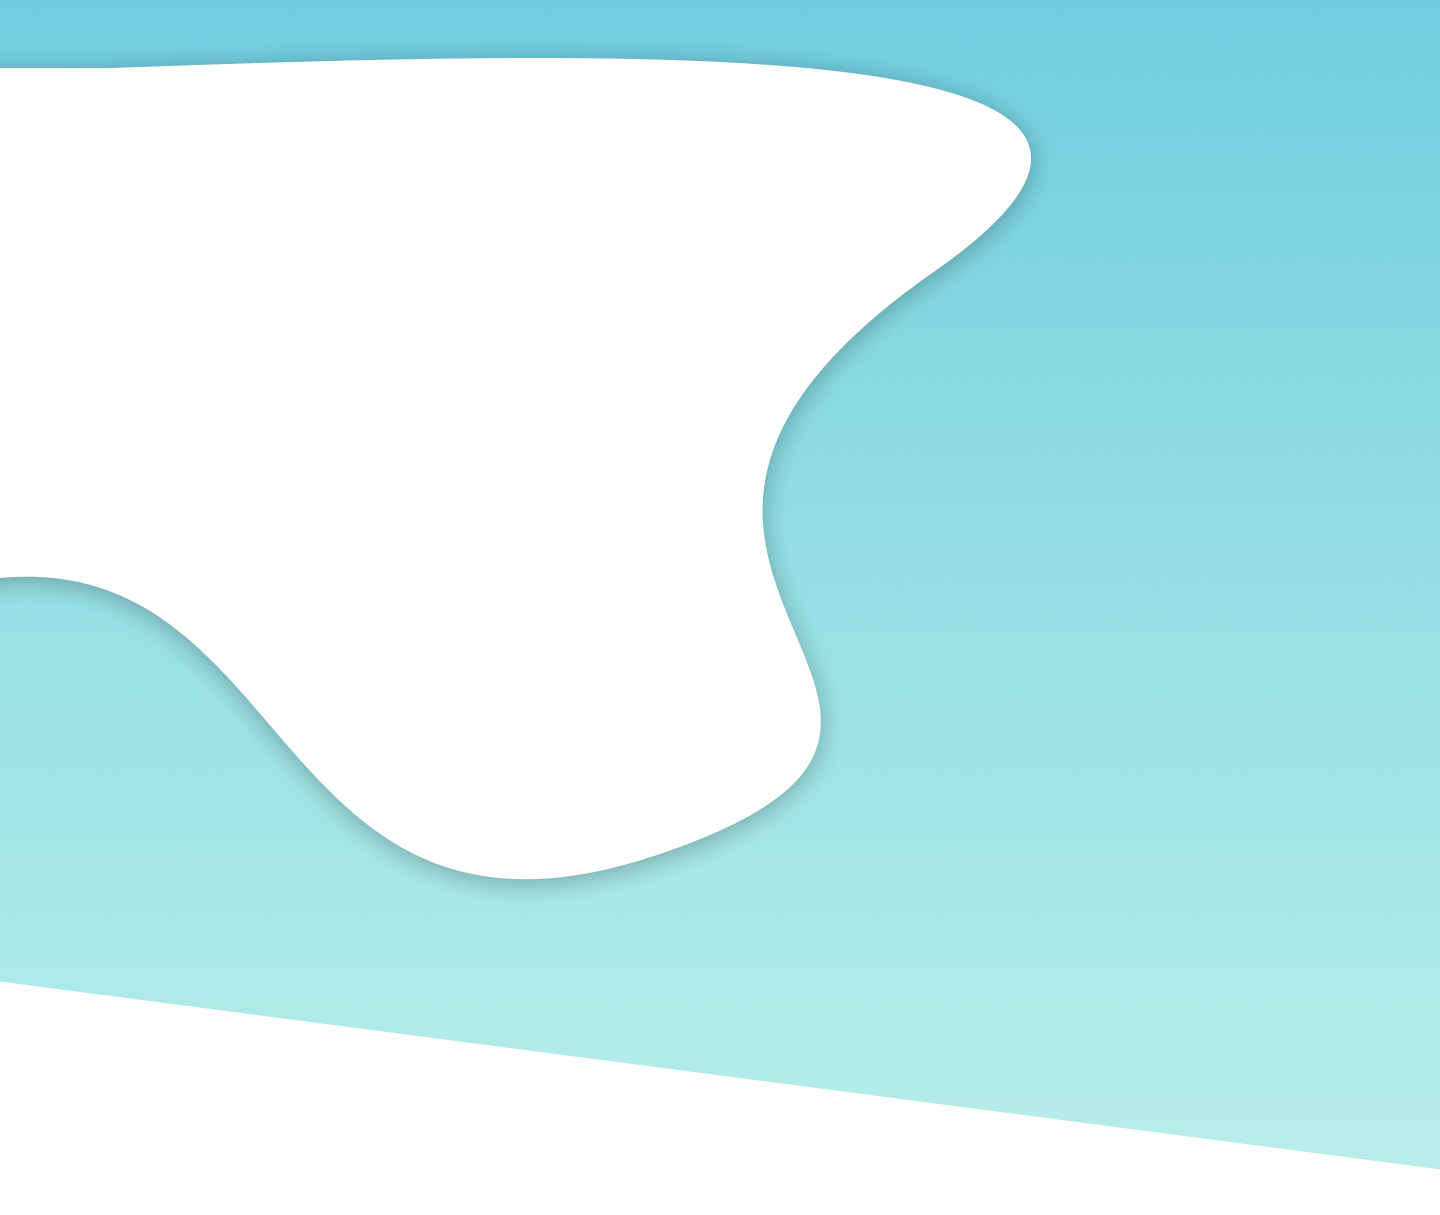
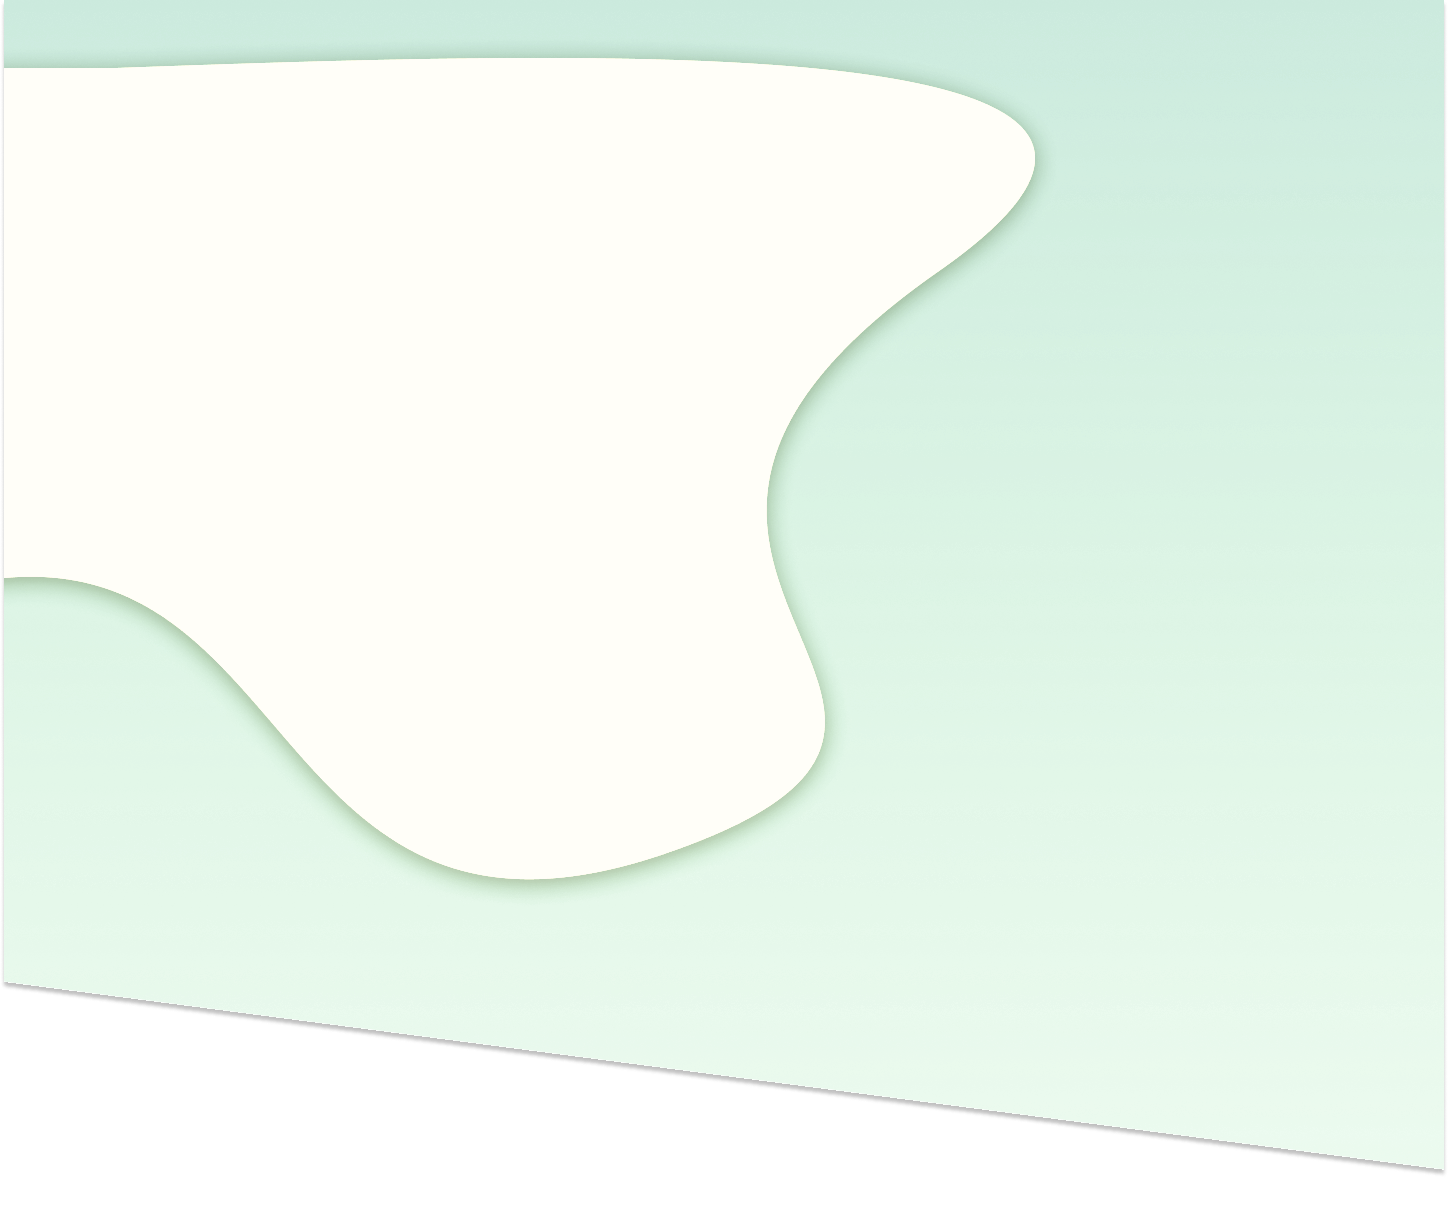
refactoring code base

diff --git a/src/pages/AboutUs/index.jsx b/src/pages/AboutUs/index.jsx
@@ -1,25 +1,21 @@
 import './style.css';
-import Avatar from '../../assets/avatar.png';
-import leona from '../../assets/leona.jpeg';
+import widies from '../../assets/widies.jpeg';
 import './style.css';
-import faza from '../../assets//fazaa.JPG';
-import adel from '../../assets/adel.jpeg';
-import kukuh from '../../assets/kukuh.jpeg';
 import Footer from '../../components/Footer/Footer';
 
 const About = () => {
   return (
-    <div>
-      <div className="container lg:mx-auto lg:px-20 max-w-screen-2xl">
+    <div className="bg-resik-base">
+      <div className="container mx-auto lg:px-20 max-w-screen-2xl">
         <div className="team grid grid-cols-2 py-10">
           <div className=" text-left grid lg:grid-cols-1 lg:col-span-1 md:grid-cols-2 md:col-span-1 sc:grid-cols-2 sc:col-span-2 sc:p-10">
             <div className="title lg:px-20 lg:text-7xl font-sans">
-              <h1>Cikrak</h1>
+              <h1>ReSik</h1>
             </div>
             <p className="lg:px-20 lg:text-2xl font-sans">
-              Cikrak is a waste application that helps people to easily throw
+              ReSik is a waste application that helps people to easily throw
               trash and gives education about how to safe earth from waste. With
-              Cikrak, you can organize your own trash bin and choose where it
+              ReSik, you can organize your own trash bin and choose where it
               goes.
             </p>
           </div>
@@ -38,78 +34,15 @@ const About = () => {
           <div className="col-span-2">
             <div className="card grid lg:grid-cols-2 md:grid-cols-2 sc:grid-cols-1">
               <div className="card-image p-5">
-                <img src={leona} alt="reduce" />
+                <img src={widies} alt="reduce" />
               </div>
               <div className="card-content content-center grid justify-items-center ">
                 <h1 className="lg:text-3xl md:text-2xl sc:text-xl">
-                  Leona Rose
+                  Widies Ade Priyanto
                 </h1>
                 <p className="lg:text-lg md:text-base sc:text-base">
-                  Project Manager
+                  Fullstack Developer
                 </p>
-              </div>
-            </div>
-          </div>
-        </div>
-        <div className="grid lg:grid-cols-2 gap-5 justify-items-center">
-          <div className="col-span-1">
-            <div className="card grid lg:grid-cols-2  md:grid-cols-2 sc:grid-cols-1">
-              <div className="card-image p-5">
-                <img src={Avatar} alt="reduce" />
-              </div>
-              <div className="card-content content-center grid justify-items-center">
-                <h1 className="lg:text-3xl md:text-2xl sc:text-xl">
-                  Ifentius Ciputra
-                </h1>
-                <p className="lg:text-lg md:text-base sc:text-base">
-                  UI/UX Designer and <br />
-                  Front End Developer
-                </p>
-              </div>
-            </div>
-          </div>
-          <div className="col-span-1">
-            <div className="card grid lg:grid-cols-2  md:grid-cols-2 sc:grid-cols-1">
-              <div className="card-content content-center grid justify-items-center">
-                <h1 className="lg:text-3xl md:text-2xl sc:text-xl">
-                  Adelia Sannomiya
-                </h1>
-                <p className="lg:text-lg md:text-base sc:text-base">
-                  Front End Developer
-                </p>
-              </div>
-              <div className="card-image p-5">
-                <img src={adel} alt="reduce" />
-              </div>
-            </div>
-          </div>
-          <div className="col-span-1">
-            <div className="card grid lg:grid-cols-2 md:grid-cols-2 sc:grid-cols-1">
-              <div className="card-image p-5">
-                <img src={kukuh} alt="reduce" />
-              </div>
-              <div className="card-content content-center grid justify-items-center">
-                <h1 className="lg:text-3xl md:text-2xl sc:text-xl">
-                  Rezky Kukuh W
-                </h1>
-                <p className="lg:text-lg md:text-base sc:text-base">
-                  Front End Developer
-                </p>
-              </div>
-            </div>
-          </div>
-          <div className="col-span-1">
-            <div className="card grid lg:grid-cols-2 md:grid-cols-2 sc:grid-cols-1">
-              <div className="card-content content-center grid justify-items-center">
-                <h1 className="lg:text-3xl md:text-2xl sc:text-xl">
-                  M Ridho Faza A K
-                </h1>
-                <p className="lg:text-lg md:text-base sc:text-base">
-                  Front End Developer
-                </p>
-              </div>
-              <div className="card-image p-5">
-                <img src={faza} alt="reduce" />
               </div>
             </div>
           </div>

diff --git a/src/pages/Register/Register.jsx b/src/pages/Register/Register.jsx
@@ -1,9 +1,9 @@
 import React from 'react';
-import registerImg from '../../assets/register.png';
+import registerImg from '../../assets/register2.png';
 import { useState } from 'react';
 import { useSelector, useDispatch } from 'react-redux';
 import { setRegister } from '../../redux/registerSlice';
-import Logo from '../../assets/logo2.png';
+import Logo from '../../assets/logo-resik2.png';
 import { Link ,useNavigate} from 'react-router-dom';
 
 export const Register = () => {
@@ -110,9 +110,9 @@ export const Register = () => {
         <div className="bg-gray-100 flex flex-col justify-center">
           <form
             onSubmit={handleSubmit}
-            className="max-w-[400px] w-full mx-auto bg-white p-4"
+            className="max-w-[400px] my-5 shadow-2xl rounded-lg px-10 w-full mx-auto bg-white p-4"
           >
-            <img src={Logo} alt="logo" className="h-16 ml-32" />
+            <img src={Logo} alt="logo" className="h-16 mx-auto" />
             <div className="flex flex-col py-2">
               <label>
                 Name<span className="text-red-600"> *</span>
@@ -203,7 +203,7 @@ export const Register = () => {
             </div>
             <button
               type="submit"
-              className="border w-full my-4 py-2 bg-lightprimary hover:bg-greenprimary text-white"
+              className="border w-full my-4 py-2 bg-resik-primary hover:bg-resik-secondary rounded-md text-white"
             >
               Register
             </button>
@@ -211,7 +211,7 @@ export const Register = () => {
               <p className="text-center mt-8 text-gray-400">
                 Already a member?{' '}
                 <Link to="/login">
-                  <span className="text-lightprimary">Sign In</span>
+                  <span className="text-resik-primary">Sign In</span>
                 </Link>
               </p>
             </div>

diff --git a/src/components/Footer/Footer.jsx b/src/components/Footer/Footer.jsx
@@ -1,5 +1,5 @@
 import React from 'react';
-import Logo from '../../assets/logo2.png';
+import Logo from '../../assets/logo-resik2.png';
 import SocialMedia from './SocialMedia';
 import { Link } from 'react-router-dom';
 
@@ -7,7 +7,7 @@ const Footer = () => {
   const Links = [
     {
       title: 'Location',
-      links: ['Jakarta', 'Denpasar', 'Semarang', 'Surabaya'],
+      links: ['Tegal', 'Slawi', 'Dukuhwaru', 'Pangkah'],
     },
     {
       title: 'Contact',
@@ -15,12 +15,12 @@ const Footer = () => {
     },
   ];
   return (
-    <footer className="pt-20 md:px-24 px-4 bg-lightprimary">
+    <footer className="pt-20 md:px-24 px-4 bg-resik-primary">
       <div className="flex md:flex-row flex-col gap-20">
         <div className="flex-1">
           <img src={Logo} alt="logo" className="h-12" />
           <p className="md:w-1/2 leading-relaxed text-sm text-white pt-7">
-            Cikrak is a waste pick-up web-application that aims to raise
+            ReSik is a waste pick-up web-application that aims to raise
             awareness on the importance of waste management and the negative
             impacts poor waste management has on the environment.
           </p>
@@ -40,7 +40,7 @@ const Footer = () => {
         </div>
       </div>
       <p className="text-center py-10 mt-6 text-sm text-white">
-        Copyright © 2022 - All Rights Reserved Cikrak.
+        Copyright © 2022 - All Rights Reserved ReSik.
       </p>
     </footer>
   );

diff --git a/src/pages/Login/Login.jsx b/src/pages/Login/Login.jsx
@@ -58,7 +58,7 @@ export const Login = () => {
         </div>
         <div className="bg-gray-100 flex flex-col justify-center">
           <form
-            className="max-w-[400px] w-full mx-auto bg-white p-4"
+            className="max-w-[400px] w-full shadow-lg rounded-lg mx-auto px-10 bg-white p-4"
             onSubmit={handleSubmit}
           >
             <img src={Logo} alt="logo" className="h-16 m-auto" />
@@ -86,16 +86,15 @@ export const Login = () => {
                 placeholder="Enter Password"
               />
             </div>
-            <button className="border w-full my-4 py-2 bg-lightprimary hover:bg-greenprimary text-white">
+            <button className="border w-full my-4 py-2 bg-resik-primary hover:bg-resik-secondary rounded-md text-white">
               Sign In
             </button>
             <div className="flex justify-between">
               <p className="flex items-center">
                 <input className="mr-2" type="checkbox" /> Remember Me
               </p>
-              <p className="text-center text-gray-400">Not a member?</p>
               <Link to="/register">
-                <span className="text-lightprimary">Sign up now</span>
+                <span className="text-resik-primary">Sign up now</span>
               </Link>
             </div>
           </form>

diff --git a/src/components/Navbar/NavBarAuth.jsx b/src/components/Navbar/NavBarAuth.jsx
@@ -1,6 +1,6 @@
-import React, { useState, useEffect } from "react";
+import React, { useState } from "react";
 import NavLinks from "../../data/NavLinks";
-import Logo from "../../assets/logo.png";
+import Logo from "../../assets/logo-resik2.png";
 import { FontAwesomeIcon } from "@fortawesome/react-fontawesome";
 import { faBars, faClose } from "@fortawesome/free-solid-svg-icons";
 import NotificationArea from "../NotificationArea";
@@ -46,9 +46,9 @@ const NavBarAuth = () => {
     ));
   };
   return (
-    <nav className="h-12 sticky top-0 flex justify-between bg-gradient-to-r from-main-green to-main-blue md:px-24 shadow-md z-50">
+    <nav className="h-16 items-center sticky top-0 flex justify-between bg-resik-secondary md:px-24 shadow-md z-50">
       <Link to="/">
-        <img src={Logo} alt="logo" className="h-10 mt-1 cursor-pointer " />
+        <img src={Logo} alt="logo" className="h-11 cursor-pointer " />
       </Link>
       <ul className="md:flex hidden items-center gap-10">{mapLinks()}</ul>
 

diff --git a/src/pages/LandingPage/index.jsx b/src/pages/LandingPage/index.jsx
@@ -2,7 +2,6 @@ import React, { useState, useRef } from "react";
 import { useSelector } from "react-redux";
 // components
 import ButtonFill from "../../components/ButtonFill/ButtonFill";
-import Companies from "../../components/Companies/Companies";
 import Review from "../../components/Review/Review";
 import Footer from "../../components/Footer/Footer";
 import { ScrollToTop } from "../../components/scroll";
@@ -67,12 +66,11 @@ const LandingPage = () => {
         </div>
         <p className="py-10 md:text-sm text-xs block text-gray-600 text-center">
           Don't hesitate to contact us for better waste management Information.
-          <span className="text-lightprimary font-semibold italic px-1">
-            KEEP NATURE WITH CIKRAK.
+          <span className="text-resik-primary font-semibold italic px-1">
+            KEEP NATURE WITH ReSik.
           </span>
         </p>
       </section>
-      <Companies />
       <Blog
         content={Contents[0]}
         ref={commentSection}

diff --git a/src/components/Navbar/Nav.jsx b/src/components/Navbar/Nav.jsx
@@ -9,16 +9,16 @@ const Nav = () => {
   const mapLinks = () => {
     return NavLinks.map((link, i) => (
      
-      <li key={i} className="font-semibold  text-white hover:text-lightprimary">
+      <li key={i} className="font-semibold  text-white hover:text-resik-primary transition-all">
         {i < 4 &&  (<a href={link.link}>{link.name}</a>)}
       </li>
     ));
   };
 
   return (
-    <nav className="h-12 sticky top-0 flex justify-between bg-greenav md:px-24 shadow-md z-50">
+    <nav className="items-center h-16 sticky top-0 flex justify-between bg-resik-secondary md:px-24 shadow-md z-50">
       <Link to="/">
-        <img src={Logo} alt="logo" className="h-10 mt-1 cursor-pointer " />
+        <img src={Logo} alt="logo" className="h-11 cursor-pointer " />
       </Link>
       <ul className="md:flex hidden items-center gap-10">{mapLinks()}</ul>
       {/* Mobile Nav */}

diff --git a/src/components/BlueButton/index.tsx b/src/components/BlueButton/index.tsx
@@ -13,7 +13,7 @@ const BlueButton = (props: ButtonProps) => {
       <button
         type={props.buttonType}
         onClick={props.onClick}
-        className="bg-main-blue hover:bg-greenprimary text-white text-sm font-bold py-2 px-4 rounded-full disabled:opacity-50 disabled:cursor-not-allowed disabled:transition-none disabled:transform-none"
+        className="bg-resik-primary hover:bg-resik-secondary text-white text-sm font-bold py-2 px-4 rounded-full disabled:opacity-50 disabled:cursor-not-allowed disabled:transition-none disabled:transform-none"
         disabled={props.disabled}
       >
         {props.btnText}

diff --git a/src/pages/AboutUs/style.css b/src/pages/AboutUs/style.css
@@ -8,9 +8,7 @@
 /* responsive desktop */
 
 .container{
-  background: #1CD8D2;  /* fallback for old browsers */
-  background: -webkit-linear-gradient(to right, #93EDC7, #1CD8D2);  /* Chrome 10-25, Safari 5.1-6 */
-  background: linear-gradient(to right, #93EDC7, #1CD8D2); /* W3C, IE 10+/ Edge, Firefox 16+, Chrome 26+, Opera 12+, Safari 7+ */
+  background: #EFF8F1;  /* fallback for old browsers */
 }
 .card-image img {
   width: 200px;
@@ -31,9 +29,7 @@
 .title {
   font-size: 40px;
   font-weight: bold;
-  color: #289cde;
-
-  
+  color: #47A359;  
 }
 .card{
    /* From https://css.glass */

diff --git a/src/components/ButtonFill/ButtonFill.jsx b/src/components/ButtonFill/ButtonFill.jsx
@@ -3,9 +3,11 @@ import React from "react";
 const ButtonFill = ({ children }) => {
   return (
     <button
-      className ="bg-lightprimary text-white rounded-full shadow-sm
-    shadow-lightprimary font-semibold md:text-sm text-xs tracking-wide md:px-9 px-7 py-3"
-    href='#section1'>
+      className="bg-resik-primary text-white rounded-full shadow-sm hover:bg-resik-secondary
+      hover:shadow-resik-secondary transition-all
+    shadow-resik-primary font-semibold md:text-sm text-xs tracking-wide md:px-9 px-7 py-3"
+      href="#section1"
+    >
       {children}
     </button>
   );

diff --git a/src/pages/Profile/index.jsx b/src/pages/Profile/index.jsx
@@ -47,11 +47,11 @@ const Profile = () => {
       <div className="flex">
         <ProfileSidebar />
         <div>
-          <div className="text-2xl font-bold mt-20 ml-16 pb-4 text-main-blue">
+          <div className="text-2xl font-bold mt-20 ml-16 pb-4 text-resik-primary">
             {edit && "Edit"} Profile
           </div>
           {edit && (
-            <p className="font-light text-main-blue ml-16 pb-1">
+            <p className="font-medium text-resik-secondary ml-16 pb-1">
               Select the fields you'd like to edit
             </p>
           )}

diff --git a/src/components/BlueOutlineButton/index.tsx b/src/components/BlueOutlineButton/index.tsx
@@ -11,7 +11,7 @@ const BlueOutlineButton = (props: ButtonProps) => {
       <button
         type="button"
         onClick={props.onClick}
-        className="bg-transparent text-sm text-main-blue hover:bg-blue-200 hover:text-white font-semibold py-2 px-4 border border-main-blue rounded-full"
+        className="bg-transparent text-sm text-resik-primary hover:bg-resik-secondary hover:text-white font-semibold py-2 px-4 border border-resik-primary rounded-full"
       >
         {props.btnText}
       </button>
